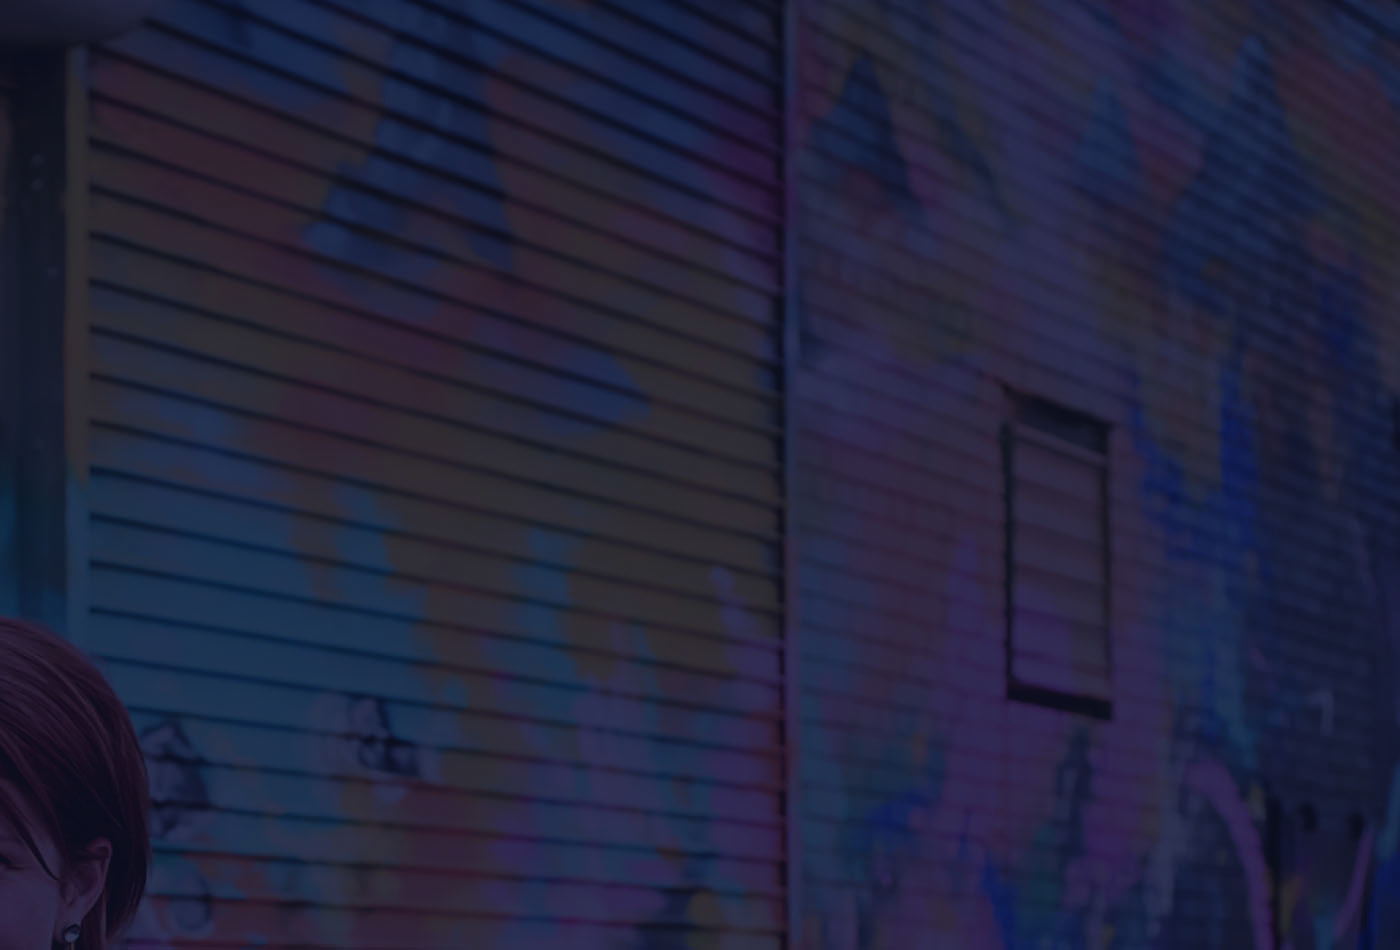
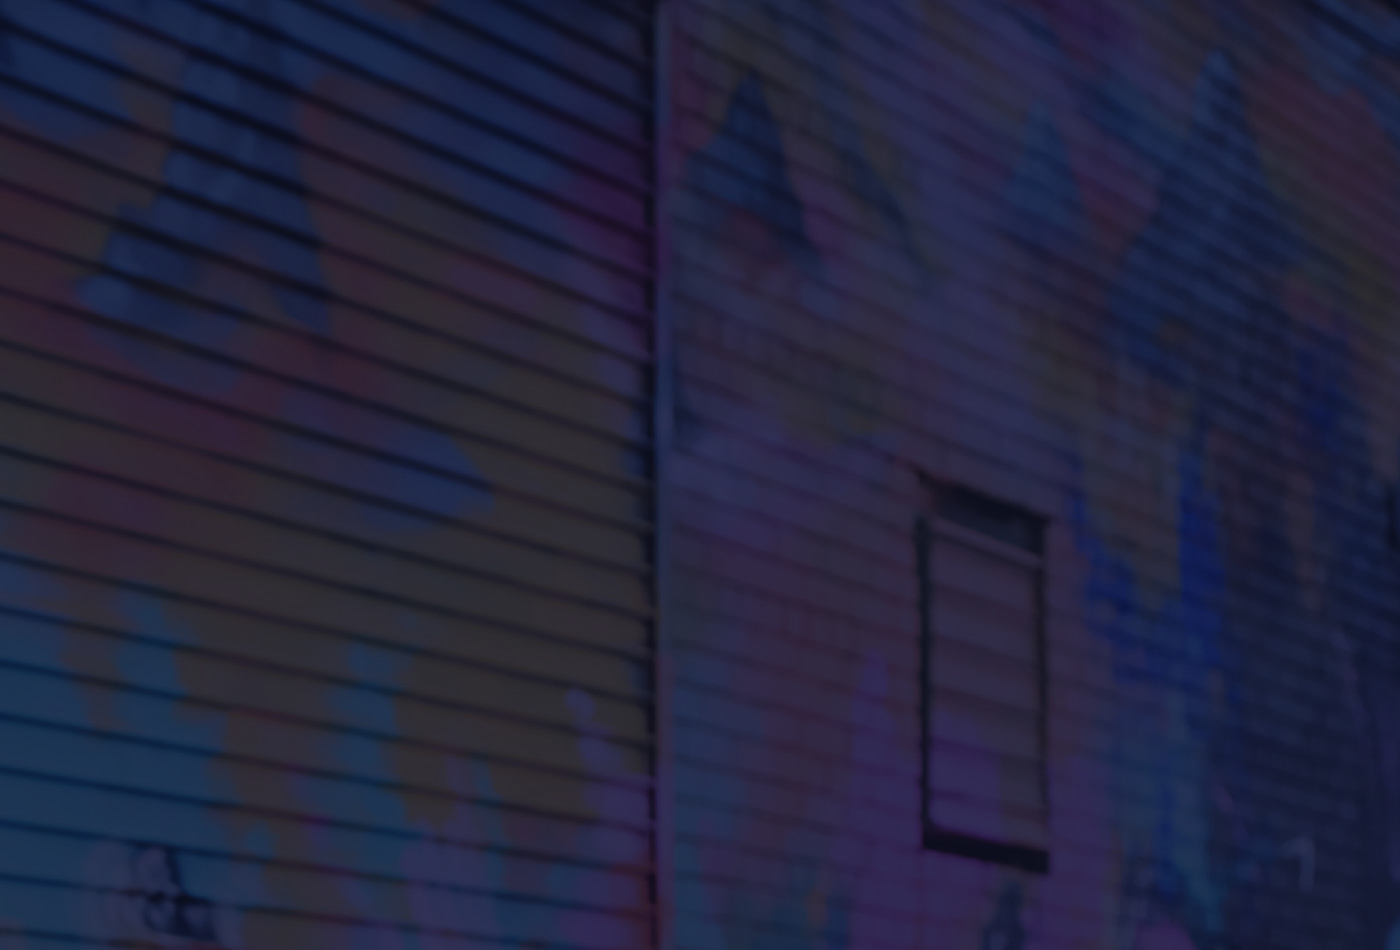
Responsive changes

diff --git a/layouts/partials/header.html b/layouts/partials/header.html
@@ -28,7 +28,7 @@
 </head>
 <body{{ with .Type}} class="{{ . }} home" {{end}}>
 
-<header {{ if isset .Params "header_image" }} style="background:url('{{ .Site.BaseURL }}{{ $.Param "header_image" }}') no-repeat left {{ $.Param "bg_image_classes" }}; background-size:cover;" {{ else }} data-slides='["images/AbideWeb-246.jpg","images/AbideWeb-318.jpg","images/AbideWeb-177.jpg","images/AbideWeb-146.jpg","images/AbideWeb-360.jpg"]' {{end}}id="header">
+<header {{ if isset .Params "header_image" }} style="background:url('{{ .Site.BaseURL }}{{ $.Param "header_image" }}') no-repeat left {{ $.Param "bg_image_classes" }}; background-size:cover;" {{ else }} data-slides='["images/AbideWeb-246.jpg","images/AbideWeb-318.jpg","images/AbideWeb-177.jpg","images/AbideWeb-146.jpg","images/AbideWeb-360.jpg"]' {{end}}class="{{$.Param "mobile_background" }}" id="header">
 	{{ partial "menu.html" . }}
 	<div id="head" class="parallax {{ $.Param "ministryname"}} {{ $.Param "ministryposition" }}" parallax-speed="2">
 		<h1 id="logo" class="text-left">

diff --git a/docs/css/styles.css b/docs/css/styles.css
@@ -1045,11 +1045,14 @@ footer.entry-meta .meta-in {
 }
 
 @media (max-width: 499px) {
-	#header {height: 50vh;}
-	.home #head {position: absolute; bottom: 55%;}
-	.home #head .title {font-size: 3.0rem;}
+	 .nav-logo {  font-size: 2rem;}
+	#header {height: 75vh;}
+	.mobile.background-right {background-position: right !important;}
+	.home #head {position: absolute; bottom: 30%;}
+	.home #head .title {font-size: 2.5rem;}
 	.home #head .tagline {font-size: 1rem;}
 	/*Ministry*/
+	.right {left: 5%;}
 	.ministry-overview {
 	background-size: 200% !important;
     background-position: top left !important;
@@ -1062,7 +1065,7 @@ footer.entry-meta .meta-in {
 }
 	.footer-logo {
     padding-right: 0;
-    margin-right: 0;
+    margin-right: 0 !important;
     border-right: none;
 }
 }

diff --git a/static/css/styles.css b/static/css/styles.css
@@ -1045,11 +1045,14 @@ footer.entry-meta .meta-in {
 }
 
 @media (max-width: 499px) {
-	#header {height: 50vh;}
-	.home #head {position: absolute; bottom: 55%;}
-	.home #head .title {font-size: 3.0rem;}
+	 .nav-logo {  font-size: 2rem;}
+	#header {height: 75vh;}
+	.mobile.background-right {background-position: right !important;}
+	.home #head {position: absolute; bottom: 30%;}
+	.home #head .title {font-size: 2.5rem;}
 	.home #head .tagline {font-size: 1rem;}
 	/*Ministry*/
+	.right {left: 5%;}
 	.ministry-overview {
 	background-size: 200% !important;
     background-position: top left !important;
@@ -1062,7 +1065,7 @@ footer.entry-meta .meta-in {
 }
 	.footer-logo {
     padding-right: 0;
-    margin-right: 0;
+    margin-right: 0 !important;
     border-right: none;
 }
 }

diff --git a/docs/service/index.html b/docs/service/index.html
@@ -26,7 +26,7 @@
 </head>
 <body class="service home" >
 
-<header  data-slides='["images/AbideWeb-246.jpg","images/AbideWeb-318.jpg","images/AbideWeb-177.jpg","images/AbideWeb-146.jpg","images/AbideWeb-360.jpg"]' id="header">
+<header  data-slides='["images/AbideWeb-246.jpg","images/AbideWeb-318.jpg","images/AbideWeb-177.jpg","images/AbideWeb-146.jpg","images/AbideWeb-360.jpg"]' class="" id="header">
 	<nav class="navbar navbar-default navbar-sticky">
     <div class="container-fluid">
 <div class="nav-logo"><a href="https://abide.community/">Abide</a></div>

diff --git a/docs/service/service1/index.html b/docs/service/service1/index.html
@@ -26,7 +26,7 @@
 </head>
 <body class="service home" >
 
-<header  data-slides='["images/AbideWeb-246.jpg","images/AbideWeb-318.jpg","images/AbideWeb-177.jpg","images/AbideWeb-146.jpg","images/AbideWeb-360.jpg"]' id="header">
+<header  data-slides='["images/AbideWeb-246.jpg","images/AbideWeb-318.jpg","images/AbideWeb-177.jpg","images/AbideWeb-146.jpg","images/AbideWeb-360.jpg"]' class="" id="header">
 	<nav class="navbar navbar-default navbar-sticky">
     <div class="container-fluid">
 <div class="nav-logo"><a href="https://abide.community/">Abide</a></div>

diff --git a/docs/service/service2/index.html b/docs/service/service2/index.html
@@ -26,7 +26,7 @@
 </head>
 <body class="service home" >
 
-<header  data-slides='["images/AbideWeb-246.jpg","images/AbideWeb-318.jpg","images/AbideWeb-177.jpg","images/AbideWeb-146.jpg","images/AbideWeb-360.jpg"]' id="header">
+<header  data-slides='["images/AbideWeb-246.jpg","images/AbideWeb-318.jpg","images/AbideWeb-177.jpg","images/AbideWeb-146.jpg","images/AbideWeb-360.jpg"]' class="" id="header">
 	<nav class="navbar navbar-default navbar-sticky">
     <div class="container-fluid">
 <div class="nav-logo"><a href="https://abide.community/">Abide</a></div>

diff --git a/docs/service/service3/index.html b/docs/service/service3/index.html
@@ -26,7 +26,7 @@
 </head>
 <body class="service home" >
 
-<header  data-slides='["images/AbideWeb-246.jpg","images/AbideWeb-318.jpg","images/AbideWeb-177.jpg","images/AbideWeb-146.jpg","images/AbideWeb-360.jpg"]' id="header">
+<header  data-slides='["images/AbideWeb-246.jpg","images/AbideWeb-318.jpg","images/AbideWeb-177.jpg","images/AbideWeb-146.jpg","images/AbideWeb-360.jpg"]' class="" id="header">
 	<nav class="navbar navbar-default navbar-sticky">
     <div class="container-fluid">
 <div class="nav-logo"><a href="https://abide.community/">Abide</a></div>

diff --git a/docs/service/service4/index.html b/docs/service/service4/index.html
@@ -26,7 +26,7 @@
 </head>
 <body class="service home" >
 
-<header  data-slides='["images/AbideWeb-246.jpg","images/AbideWeb-318.jpg","images/AbideWeb-177.jpg","images/AbideWeb-146.jpg","images/AbideWeb-360.jpg"]' id="header">
+<header  data-slides='["images/AbideWeb-246.jpg","images/AbideWeb-318.jpg","images/AbideWeb-177.jpg","images/AbideWeb-146.jpg","images/AbideWeb-360.jpg"]' class="" id="header">
 	<nav class="navbar navbar-default navbar-sticky">
     <div class="container-fluid">
 <div class="nav-logo"><a href="https://abide.community/">Abide</a></div>

diff --git a/docs/about/index.html b/docs/about/index.html
@@ -26,7 +26,7 @@
 </head>
 <body class="about home" >
 
-<header  data-slides='["images/AbideWeb-246.jpg","images/AbideWeb-318.jpg","images/AbideWeb-177.jpg","images/AbideWeb-146.jpg","images/AbideWeb-360.jpg"]' id="header">
+<header  data-slides='["images/AbideWeb-246.jpg","images/AbideWeb-318.jpg","images/AbideWeb-177.jpg","images/AbideWeb-146.jpg","images/AbideWeb-360.jpg"]' class="" id="header">
 	<nav class="navbar navbar-default navbar-sticky">
     <div class="container-fluid">
 <div class="nav-logo"><a href="https://abide.community/">Abide</a></div>

diff --git a/docs/index.html b/docs/index.html
@@ -27,7 +27,7 @@
 </head>
 <body class="page home" >
 
-<header  data-slides='["images/AbideWeb-246.jpg","images/AbideWeb-318.jpg","images/AbideWeb-177.jpg","images/AbideWeb-146.jpg","images/AbideWeb-360.jpg"]' id="header">
+<header  data-slides='["images/AbideWeb-246.jpg","images/AbideWeb-318.jpg","images/AbideWeb-177.jpg","images/AbideWeb-146.jpg","images/AbideWeb-360.jpg"]' class="" id="header">
 	<nav class="navbar navbar-default navbar-sticky">
     <div class="container-fluid">
 <div class="nav-logo"><a href="https://abide.community/">Abide</a></div>

diff --git a/docs/abide/index.html b/docs/abide/index.html
@@ -26,7 +26,7 @@
 </head>
 <body class="ministry home" >
 
-<header  style="background:url('https://abide.community/images/AbideWeb-335.jpg') no-repeat left ; background-size:cover;" id="header">
+<header  style="background:url('https://abide.community/images/AbideWeb-335.jpg') no-repeat left ; background-size:cover;" class="mobile background-right" id="header">
 	<nav class="navbar navbar-default navbar-sticky">
     <div class="container-fluid">
 <div class="nav-logo"><a href="https://abide.community/">Abide</a></div>

diff --git a/docs/beholders/index.html b/docs/beholders/index.html
@@ -26,7 +26,7 @@
 </head>
 <body class="ministry home" >
 
-<header  style="background:url('https://abide.community/images/AbideWeb-146.jpg') no-repeat left ; background-size:cover;" id="header">
+<header  style="background:url('https://abide.community/images/AbideWeb-146.jpg') no-repeat left ; background-size:cover;" class="mobile background-right" id="header">
 	<nav class="navbar navbar-default navbar-sticky">
     <div class="container-fluid">
 <div class="nav-logo"><a href="https://abide.community/">Abide</a></div>
